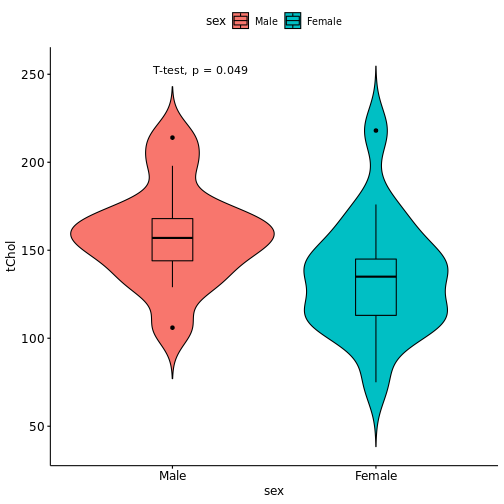
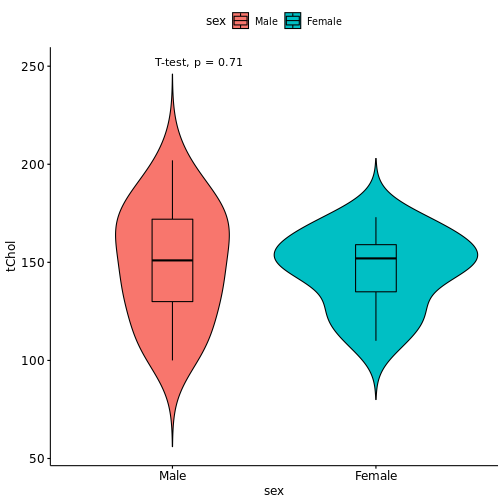
s

diff --git a/docs/table1/index.html b/docs/table1/index.html
@@ -3,7 +3,7 @@
   <head>
     <title>기술통계 in 의학연구</title>
     <meta charset="utf-8" />
-    <meta name="author" content="김진섭; " />
+    <meta name="author" content="김진섭; <span>&lt;i class="fab  fa-github faa-float animated "&gt;&lt;/i&gt;jinseob2kim</span>" />
     <meta name="date" content="2021-03-16" />
     <script src="libs/header-attrs/header-attrs.js"></script>
     <link href="libs/remark-css/default.css" rel="stylesheet" />
@@ -177,11 +177,8 @@ https://www.evanmiller.org/ab-testing/t-test.html 에서 바로 가능.
 
 ---
 
-
-```{=html}
-&lt;div id="htmlwidget-d19b91d1b64d0cb9e5c9" style="width:100%;height:auto;" class="datatables html-widget"&gt;&lt;/div&gt;
-&lt;script type="application/json" data-for="htmlwidget-d19b91d1b64d0cb9e5c9"&gt;{"x":{"filter":"none","caption":"&lt;caption&gt;data.t: sex and total cholesterol&lt;\/caption&gt;","data":[["person 1","person 2","person 3","person 4","person 5","person 6","person 7","person 8","person 9","person 10","person 11","person 12","person 13","person 14","person 15","person 16","person 17","person 18","person 19","person 20","person 21","person 22","person 23","person 24","person 25","person 26","person 27","person 28","person 29","person 30"],["Male","Female","Male","Female","Female","Male","Male","Male","Male","Male","Male","Female","Female","Female","Female","Female","Male","Female","Female","Female","Male","Female","Female","Male","Female","Male","Female","Male","Female","Female"],[129,75,198,129,135,165,176,153,214,164,157,141,106,159,164,101,134,117,145,145,168,176,141,144,218,106,111,151,114,113]],"container":"&lt;table class=\"display\"&gt;\n  &lt;thead&gt;\n    &lt;tr&gt;\n      &lt;th&gt; &lt;\/th&gt;\n      &lt;th&gt;sex&lt;\/th&gt;\n      &lt;th&gt;tChol&lt;\/th&gt;\n    &lt;\/tr&gt;\n  &lt;\/thead&gt;\n&lt;\/table&gt;","options":{"columnDefs":[{"className":"dt-right","targets":2},{"orderable":false,"targets":0}],"order":[],"autoWidth":false,"orderClasses":false}},"evals":[],"jsHooks":[]}&lt;/script&gt;
-```
+<div id="htmlwidget-eac068cdd77d22d6c2b0" style="width:100%;height:auto;" class="datatables html-widget"></div>
+<script type="application/json" data-for="htmlwidget-eac068cdd77d22d6c2b0">{"x":{"filter":"none","caption":"<caption>data.t: sex and total cholesterol<\/caption>","data":[["person 1","person 2","person 3","person 4","person 5","person 6","person 7","person 8","person 9","person 10","person 11","person 12","person 13","person 14","person 15","person 16","person 17","person 18","person 19","person 20","person 21","person 22","person 23","person 24","person 25","person 26","person 27","person 28","person 29","person 30"],["Male","Male","Female","Female","Male","Male","Male","Female","Female","Male","Male","Female","Male","Male","Male","Female","Male","Male","Female","Male","Male","Male","Female","Male","Female","Female","Male","Female","Male","Male"],[176,139,156,127,126,118,136,152,152,151,168,173,112,163,159,122,100,134,110,184,186,202,167,106,162,143,165,144,178,146]],"container":"<table class=\"display\">\n  <thead>\n    <tr>\n      <th> <\/th>\n      <th>sex<\/th>\n      <th>tChol<\/th>\n    <\/tr>\n  <\/thead>\n<\/table>","options":{"columnDefs":[{"className":"dt-right","targets":2},{"orderable":false,"targets":0}],"order":[],"autoWidth":false,"orderClasses":false}},"evals":[],"jsHooks":[]}</script>
 
 ---
 
@@ -196,17 +193,17 @@ nev.ttest
 ## 	Welch Two Sample t-test
 ## 
 ## data:  tChol by sex
-## t = -2.102, df = 27.619, p-value = 0.0448
+## t = -0.42042, df = 27.269, p-value = 0.6775
 ## alternative hypothesis: true difference in means is not equal to 0
 ## 95 percent confidence interval:
-##  -46.7678350  -0.5896311
+##  -22.13438  14.60328
 ## sample estimates:
 ## mean in group Female   mean in group Male 
-##             134.7059             158.3846
+##             146.1818             149.9474
 ```
 
 .large[
-여자의 평균 콜레스테롤 값은 134.7, 남자는 158.4 이고 `\(p\)`-value는 0.045  
+여자의 평균 콜레스테롤 값은 146.2, 남자는 149.9 이고 `\(p\)`-value는 0.677  
 
 ]
 
@@ -226,17 +223,17 @@ ev.ttest
 ## 	Two Sample t-test
 ## 
 ## data:  tChol by sex
-## t = -2.0563, df = 28, p-value = 0.04918
+## t = -0.37829, df = 28, p-value = 0.7081
 ## alternative hypothesis: true difference in means is not equal to 0
 ## 95 percent confidence interval:
-##  -47.26641348  -0.09105259
+##  -24.1559  16.6248
 ## sample estimates:
 ## mean in group Female   mean in group Male 
-##             134.7059             158.3846
+##             146.1818             149.9474
 ```
 
 
-앞서는 **Welch t-test** 였는데 이름이 바뀐 것을 확인할 수 있고 `\(p\)`-value도 0.049로 다름. 
+앞서는 **Welch t-test** 였는데 이름이 바뀐 것을 확인할 수 있고 `\(p\)`-value도 0.708로 다름. 
 - 특별한 경우가 아니고서야 위험한 등분산가정을 할 필요가 없음.   
 
 - **R** 에서 디폴트도 `F` 임.
@@ -313,7 +310,7 @@ res.wilcox
 ## 	Wilcoxon rank sum test with continuity correction
 ## 
 ## data:  tChol by sex
-## W = 61, p-value = 0.04016
+## W = 95, p-value = 0.6985
 ## alternative hypothesis: true location shift is not equal to 0
 ```
 
@@ -349,11 +346,8 @@ ggboxplot(data.t, "sex", "tChol", fill = "sex") +
 
 ---
 
-
-```{=html}
-&lt;div id="htmlwidget-eab881b1d3a64036e71c" style="width:100%;height:auto;" class="datatables html-widget"&gt;&lt;/div&gt;
-&lt;script type="application/json" data-for="htmlwidget-eab881b1d3a64036e71c"&gt;{"x":{"filter":"none","caption":"&lt;caption&gt;data.t: group and total cholesterol&lt;\/caption&gt;","data":[["person 1","person 2","person 3","person 4","person 5","person 6","person 7","person 8","person 9","person 10","person 11","person 12","person 13","person 14","person 15","person 16","person 17","person 18","person 19","person 20","person 21","person 22","person 23","person 24","person 25","person 26","person 27","person 28","person 29","person 30"],["C","B","C","B","B","B","C","A","B","B","A","B","C","A","C","C","A","A","A","A","C","B","C","B","A","B","C","B","A","C"],[126,128,144,140,117,147,182,146,115,125,171,140,111,132,146,177,145,160,53,127,159,113,163,174,145,187,122,162,162,123]],"container":"&lt;table class=\"display\"&gt;\n  &lt;thead&gt;\n    &lt;tr&gt;\n      &lt;th&gt; &lt;\/th&gt;\n      &lt;th&gt;group&lt;\/th&gt;\n      &lt;th&gt;tChol&lt;\/th&gt;\n    &lt;\/tr&gt;\n  &lt;\/thead&gt;\n&lt;\/table&gt;","options":{"columnDefs":[{"className":"dt-right","targets":2},{"orderable":false,"targets":0}],"order":[],"autoWidth":false,"orderClasses":false}},"evals":[],"jsHooks":[]}&lt;/script&gt;
-```
+<div id="htmlwidget-3e8d120186df24507afc" style="width:100%;height:auto;" class="datatables html-widget"></div>
+<script type="application/json" data-for="htmlwidget-3e8d120186df24507afc">{"x":{"filter":"none","caption":"<caption>data.t: group and total cholesterol<\/caption>","data":[["person 1","person 2","person 3","person 4","person 5","person 6","person 7","person 8","person 9","person 10","person 11","person 12","person 13","person 14","person 15","person 16","person 17","person 18","person 19","person 20","person 21","person 22","person 23","person 24","person 25","person 26","person 27","person 28","person 29","person 30"],["C","B","C","B","B","B","C","A","B","B","A","B","C","A","C","C","A","A","A","A","C","B","C","B","A","B","C","B","A","C"],[126,128,144,140,117,147,182,146,115,125,171,140,111,132,146,177,145,160,53,127,159,113,163,174,145,187,122,162,162,123]],"container":"<table class=\"display\">\n  <thead>\n    <tr>\n      <th> <\/th>\n      <th>group<\/th>\n      <th>tChol<\/th>\n    <\/tr>\n  <\/thead>\n<\/table>","options":{"columnDefs":[{"className":"dt-right","targets":2},{"orderable":false,"targets":0}],"order":[],"autoWidth":false,"orderClasses":false}},"evals":[],"jsHooks":[]}</script>
 
 ---
 
@@ -471,11 +465,8 @@ class: center, middle
 
 ---
 
-
-```{=html}
-&lt;div id="htmlwidget-b3390088249b959fdd23" style="width:100%;height:auto;" class="datatables html-widget"&gt;&lt;/div&gt;
-&lt;script type="application/json" data-for="htmlwidget-b3390088249b959fdd23"&gt;{"x":{"filter":"none","caption":"&lt;caption&gt;data.chi: HTN &amp;amp; DM medication&lt;\/caption&gt;","data":[["person 1","person 2","person 3","person 4","person 5","person 6","person 7","person 8","person 9","person 10","person 11","person 12","person 13","person 14","person 15","person 16","person 17","person 18","person 19","person 20","person 21","person 22","person 23","person 24","person 25","person 26","person 27","person 28","person 29","person 30","person 31","person 32","person 33","person 34","person 35","person 36","person 37","person 38","person 39","person 40","person 41","person 42","person 43","person 44","person 45","person 46","person 47","person 48","person 49","person 50"],[1,0,0,0,1,1,0,0,0,0,0,0,0,1,1,0,1,0,0,0,1,0,0,0,0,1,1,0,0,1,0,1,0,0,0,1,1,0,0,1,1,1,1,1,0,1,1,1,0,1],[0,0,1,1,0,0,0,0,1,1,0,0,1,1,0,1,0,0,0,0,1,0,1,0,0,0,0,0,1,0,0,1,1,0,0,1,1,1,1,0,1,1,0,0,1,0,0,1,1,0]],"container":"&lt;table class=\"display\"&gt;\n  &lt;thead&gt;\n    &lt;tr&gt;\n      &lt;th&gt; &lt;\/th&gt;\n      &lt;th&gt;HTN_medi&lt;\/th&gt;\n      &lt;th&gt;DM_medi&lt;\/th&gt;\n    &lt;\/tr&gt;\n  &lt;\/thead&gt;\n&lt;\/table&gt;","options":{"columnDefs":[{"className":"dt-right","targets":[1,2]},{"orderable":false,"targets":0}],"order":[],"autoWidth":false,"orderClasses":false}},"evals":[],"jsHooks":[]}&lt;/script&gt;
-```
+<div id="htmlwidget-4e6ca7756daab8c3f54b" style="width:100%;height:auto;" class="datatables html-widget"></div>
+<script type="application/json" data-for="htmlwidget-4e6ca7756daab8c3f54b">{"x":{"filter":"none","caption":"<caption>data.chi: HTN &amp; DM medication<\/caption>","data":[["person 1","person 2","person 3","person 4","person 5","person 6","person 7","person 8","person 9","person 10","person 11","person 12","person 13","person 14","person 15","person 16","person 17","person 18","person 19","person 20","person 21","person 22","person 23","person 24","person 25","person 26","person 27","person 28","person 29","person 30","person 31","person 32","person 33","person 34","person 35","person 36","person 37","person 38","person 39","person 40","person 41","person 42","person 43","person 44","person 45","person 46","person 47","person 48","person 49","person 50"],[1,0,0,0,1,1,0,0,0,0,0,0,0,1,1,0,1,0,0,0,1,0,0,0,0,1,1,0,0,1,0,1,0,0,0,1,1,0,0,1,1,1,1,1,0,1,1,1,0,1],[0,0,1,1,0,0,0,0,1,1,0,0,1,1,0,1,0,0,0,0,1,0,1,0,0,0,0,0,1,0,0,1,1,0,0,1,1,1,1,0,1,1,0,0,1,0,0,1,1,0]],"container":"<table class=\"display\">\n  <thead>\n    <tr>\n      <th> <\/th>\n      <th>HTN_medi<\/th>\n      <th>DM_medi<\/th>\n    <\/tr>\n  <\/thead>\n<\/table>","options":{"columnDefs":[{"className":"dt-right","targets":[1,2]},{"orderable":false,"targets":0}],"order":[],"autoWidth":false,"orderClasses":false}},"evals":[],"jsHooks":[]}</script>
 
 
 ---
@@ -525,11 +516,8 @@ res.chi
 
 ---
 
-
-```{=html}
-&lt;div id="htmlwidget-aec69b6fa58418448b06" style="width:100%;height:auto;" class="datatables html-widget"&gt;&lt;/div&gt;
-&lt;script type="application/json" data-for="htmlwidget-aec69b6fa58418448b06"&gt;{"x":{"filter":"none","caption":"&lt;caption&gt;data.fisher: HTN &amp;amp; DM medication&lt;\/caption&gt;","data":[["person 1","person 2","person 3","person 4","person 5","person 6","person 7","person 8","person 9","person 10","person 11","person 12","person 13","person 14","person 15","person 16","person 17","person 18","person 19","person 20","person 21","person 22","person 23","person 24","person 25","person 26","person 27","person 28","person 29","person 30","person 31","person 32","person 33","person 34","person 35","person 36","person 37","person 38","person 39","person 40","person 41","person 42","person 43","person 44","person 45","person 46","person 47","person 48","person 49","person 50"],[1,0,0,0,1,1,0,0,0,0,0,0,0,0,1,0,0,0,0,0,1,0,0,0,0,1,0,0,0,1,0,0,0,0,0,1,0,0,0,0,0,1,0,0,0,0,1,0,0,1],[0,0,0,1,0,0,0,0,1,0,0,0,0,1,0,1,0,0,0,0,0,0,0,0,0,0,0,0,1,0,0,0,0,0,0,1,1,1,1,0,0,1,0,0,0,0,0,0,0,0]],"container":"&lt;table class=\"display\"&gt;\n  &lt;thead&gt;\n    &lt;tr&gt;\n      &lt;th&gt; &lt;\/th&gt;\n      &lt;th&gt;HTN_medi&lt;\/th&gt;\n      &lt;th&gt;DM_medi&lt;\/th&gt;\n    &lt;\/tr&gt;\n  &lt;\/thead&gt;\n&lt;\/table&gt;","options":{"columnDefs":[{"className":"dt-right","targets":[1,2]},{"orderable":false,"targets":0}],"order":[],"autoWidth":false,"orderClasses":false}},"evals":[],"jsHooks":[]}&lt;/script&gt;
-```
+<div id="htmlwidget-4792ed8c95583ec0f018" style="width:100%;height:auto;" class="datatables html-widget"></div>
+<script type="application/json" data-for="htmlwidget-4792ed8c95583ec0f018">{"x":{"filter":"none","caption":"<caption>data.fisher: HTN &amp; DM medication<\/caption>","data":[["person 1","person 2","person 3","person 4","person 5","person 6","person 7","person 8","person 9","person 10","person 11","person 12","person 13","person 14","person 15","person 16","person 17","person 18","person 19","person 20","person 21","person 22","person 23","person 24","person 25","person 26","person 27","person 28","person 29","person 30","person 31","person 32","person 33","person 34","person 35","person 36","person 37","person 38","person 39","person 40","person 41","person 42","person 43","person 44","person 45","person 46","person 47","person 48","person 49","person 50"],[1,0,0,0,1,1,0,0,0,0,0,0,0,0,1,0,0,0,0,0,1,0,0,0,0,1,0,0,0,1,0,0,0,0,0,1,0,0,0,0,0,1,0,0,0,0,1,0,0,1],[0,0,0,1,0,0,0,0,1,0,0,0,0,1,0,1,0,0,0,0,0,0,0,0,0,0,0,0,1,0,0,0,0,0,0,1,1,1,1,0,0,1,0,0,0,0,0,0,0,0]],"container":"<table class=\"display\">\n  <thead>\n    <tr>\n      <th> <\/th>\n      <th>HTN_medi<\/th>\n      <th>DM_medi<\/th>\n    <\/tr>\n  <\/thead>\n<\/table>","options":{"columnDefs":[{"className":"dt-right","targets":[1,2]},{"orderable":false,"targets":0}],"order":[],"autoWidth":false,"orderClasses":false}},"evals":[],"jsHooks":[]}</script>
 
 ---
 
@@ -632,11 +620,8 @@ class: center, middle
 
 
 ---
-
-```{=html}
-&lt;div id="htmlwidget-e593cea66559128c1062" style="width:100%;height:auto;" class="datatables html-widget"&gt;&lt;/div&gt;
-&lt;script type="application/json" data-for="htmlwidget-e593cea66559128c1062"&gt;{"x":{"filter":"none","caption":"&lt;caption&gt;data.pt: systolic blood pressure measured by hand &amp;amp; machine&lt;\/caption&gt;","data":[["person 1","person 2","person 3","person 4","person 5","person 6","person 7","person 8","person 9","person 10","person 11","person 12","person 13","person 14","person 15","person 16","person 17","person 18","person 19","person 20","person 21","person 22","person 23","person 24","person 25","person 26","person 27","person 28","person 29","person 30"],[128,128,120,119,124,130,127,131,127,120,119,131,129,129,125,129,126,132,123,111,125,125,119,112,129,126,125,128,125,128],[128,119,119,126,118,124,128,129,117,130,123,128,128,133,127,126,127,119,122,125,124,127,128,126,127,123,129,123,142,123]],"container":"&lt;table class=\"display\"&gt;\n  &lt;thead&gt;\n    &lt;tr&gt;\n      &lt;th&gt; &lt;\/th&gt;\n      &lt;th&gt;SBP_hand&lt;\/th&gt;\n      &lt;th&gt;SBP_machine&lt;\/th&gt;\n    &lt;\/tr&gt;\n  &lt;\/thead&gt;\n&lt;\/table&gt;","options":{"columnDefs":[{"className":"dt-right","targets":[1,2]},{"orderable":false,"targets":0}],"order":[],"autoWidth":false,"orderClasses":false}},"evals":[],"jsHooks":[]}&lt;/script&gt;
-```
+<div id="htmlwidget-e4958bc8a1aa96380104" style="width:100%;height:auto;" class="datatables html-widget"></div>
+<script type="application/json" data-for="htmlwidget-e4958bc8a1aa96380104">{"x":{"filter":"none","caption":"<caption>data.pt: systolic blood pressure measured by hand &amp; machine<\/caption>","data":[["person 1","person 2","person 3","person 4","person 5","person 6","person 7","person 8","person 9","person 10","person 11","person 12","person 13","person 14","person 15","person 16","person 17","person 18","person 19","person 20","person 21","person 22","person 23","person 24","person 25","person 26","person 27","person 28","person 29","person 30"],[128,128,120,119,124,130,127,131,127,120,119,131,129,129,125,129,126,132,123,111,125,125,119,112,129,126,125,128,125,128],[128,119,119,126,118,124,128,129,117,130,123,128,128,133,127,126,127,119,122,125,124,127,128,126,127,123,129,123,142,123]],"container":"<table class=\"display\">\n  <thead>\n    <tr>\n      <th> <\/th>\n      <th>SBP_hand<\/th>\n      <th>SBP_machine<\/th>\n    <\/tr>\n  <\/thead>\n<\/table>","options":{"columnDefs":[{"className":"dt-right","targets":[1,2]},{"orderable":false,"targets":0}],"order":[],"autoWidth":false,"orderClasses":false}},"evals":[],"jsHooks":[]}</script>
 
 
 ---
@@ -746,11 +731,8 @@ class: center, middle
 
 ---
 
-
-```{=html}
-&lt;div id="htmlwidget-01891785d03f09a56d05" style="width:100%;height:auto;" class="datatables html-widget"&gt;&lt;/div&gt;
-&lt;script type="application/json" data-for="htmlwidget-01891785d03f09a56d05"&gt;{"x":{"filter":"none","caption":"&lt;caption&gt;data.mc: Abdominal pain - before &amp;amp; after&lt;\/caption&gt;","data":[["person 1","person 2","person 3","person 4","person 5","person 6","person 7","person 8","person 9","person 10","person 11","person 12","person 13","person 14","person 15","person 16","person 17","person 18","person 19","person 20","person 21","person 22","person 23","person 24","person 25","person 26","person 27","person 28","person 29","person 30"],[0,1,0,0,0,1,0,0,0,0,1,1,0,1,0,1,1,0,0,0,1,1,1,0,1,1,0,1,0,1],[0,1,1,0,1,0,0,0,0,1,0,0,0,1,1,0,1,0,1,1,1,0,0,1,0,0,0,1,1,0]],"container":"&lt;table class=\"display\"&gt;\n  &lt;thead&gt;\n    &lt;tr&gt;\n      &lt;th&gt; &lt;\/th&gt;\n      &lt;th&gt;Pain_before&lt;\/th&gt;\n      &lt;th&gt;Pain_after&lt;\/th&gt;\n    &lt;\/tr&gt;\n  &lt;\/thead&gt;\n&lt;\/table&gt;","options":{"columnDefs":[{"className":"dt-right","targets":[1,2]},{"orderable":false,"targets":0}],"order":[],"autoWidth":false,"orderClasses":false}},"evals":[],"jsHooks":[]}&lt;/script&gt;
-```
+<div id="htmlwidget-4deb3beea3f5b34f4e72" style="width:100%;height:auto;" class="datatables html-widget"></div>
+<script type="application/json" data-for="htmlwidget-4deb3beea3f5b34f4e72">{"x":{"filter":"none","caption":"<caption>data.mc: Abdominal pain - before &amp; after<\/caption>","data":[["person 1","person 2","person 3","person 4","person 5","person 6","person 7","person 8","person 9","person 10","person 11","person 12","person 13","person 14","person 15","person 16","person 17","person 18","person 19","person 20","person 21","person 22","person 23","person 24","person 25","person 26","person 27","person 28","person 29","person 30"],[0,1,0,0,0,1,0,0,0,0,1,1,0,1,0,1,1,0,0,0,1,1,1,0,1,1,0,1,0,1],[0,1,1,0,1,0,0,0,0,1,0,0,0,1,1,0,1,0,1,1,1,0,0,1,0,0,0,1,1,0]],"container":"<table class=\"display\">\n  <thead>\n    <tr>\n      <th> <\/th>\n      <th>Pain_before<\/th>\n      <th>Pain_after<\/th>\n    <\/tr>\n  <\/thead>\n<\/table>","options":{"columnDefs":[{"className":"dt-right","targets":[1,2]},{"orderable":false,"targets":0}],"order":[],"autoWidth":false,"orderClasses":false}},"evals":[],"jsHooks":[]}</script>
 
 ---
 
